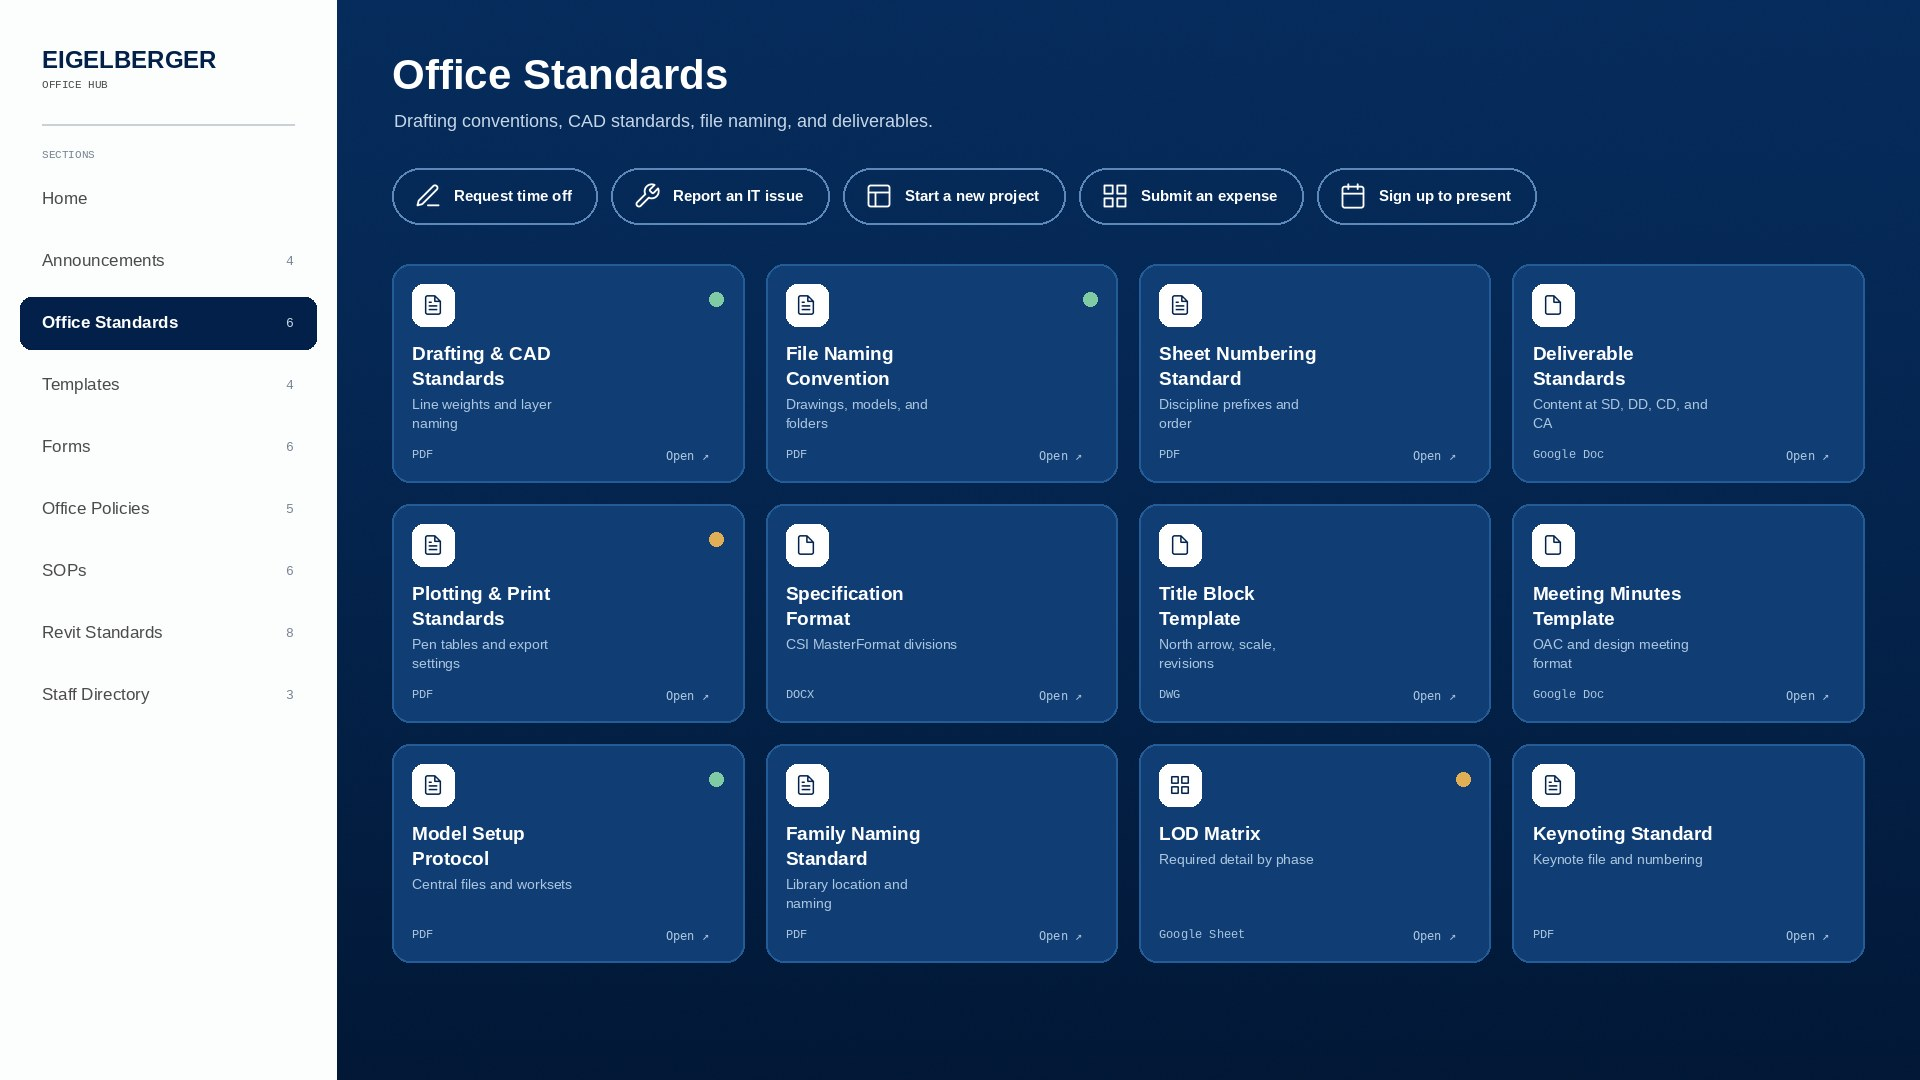
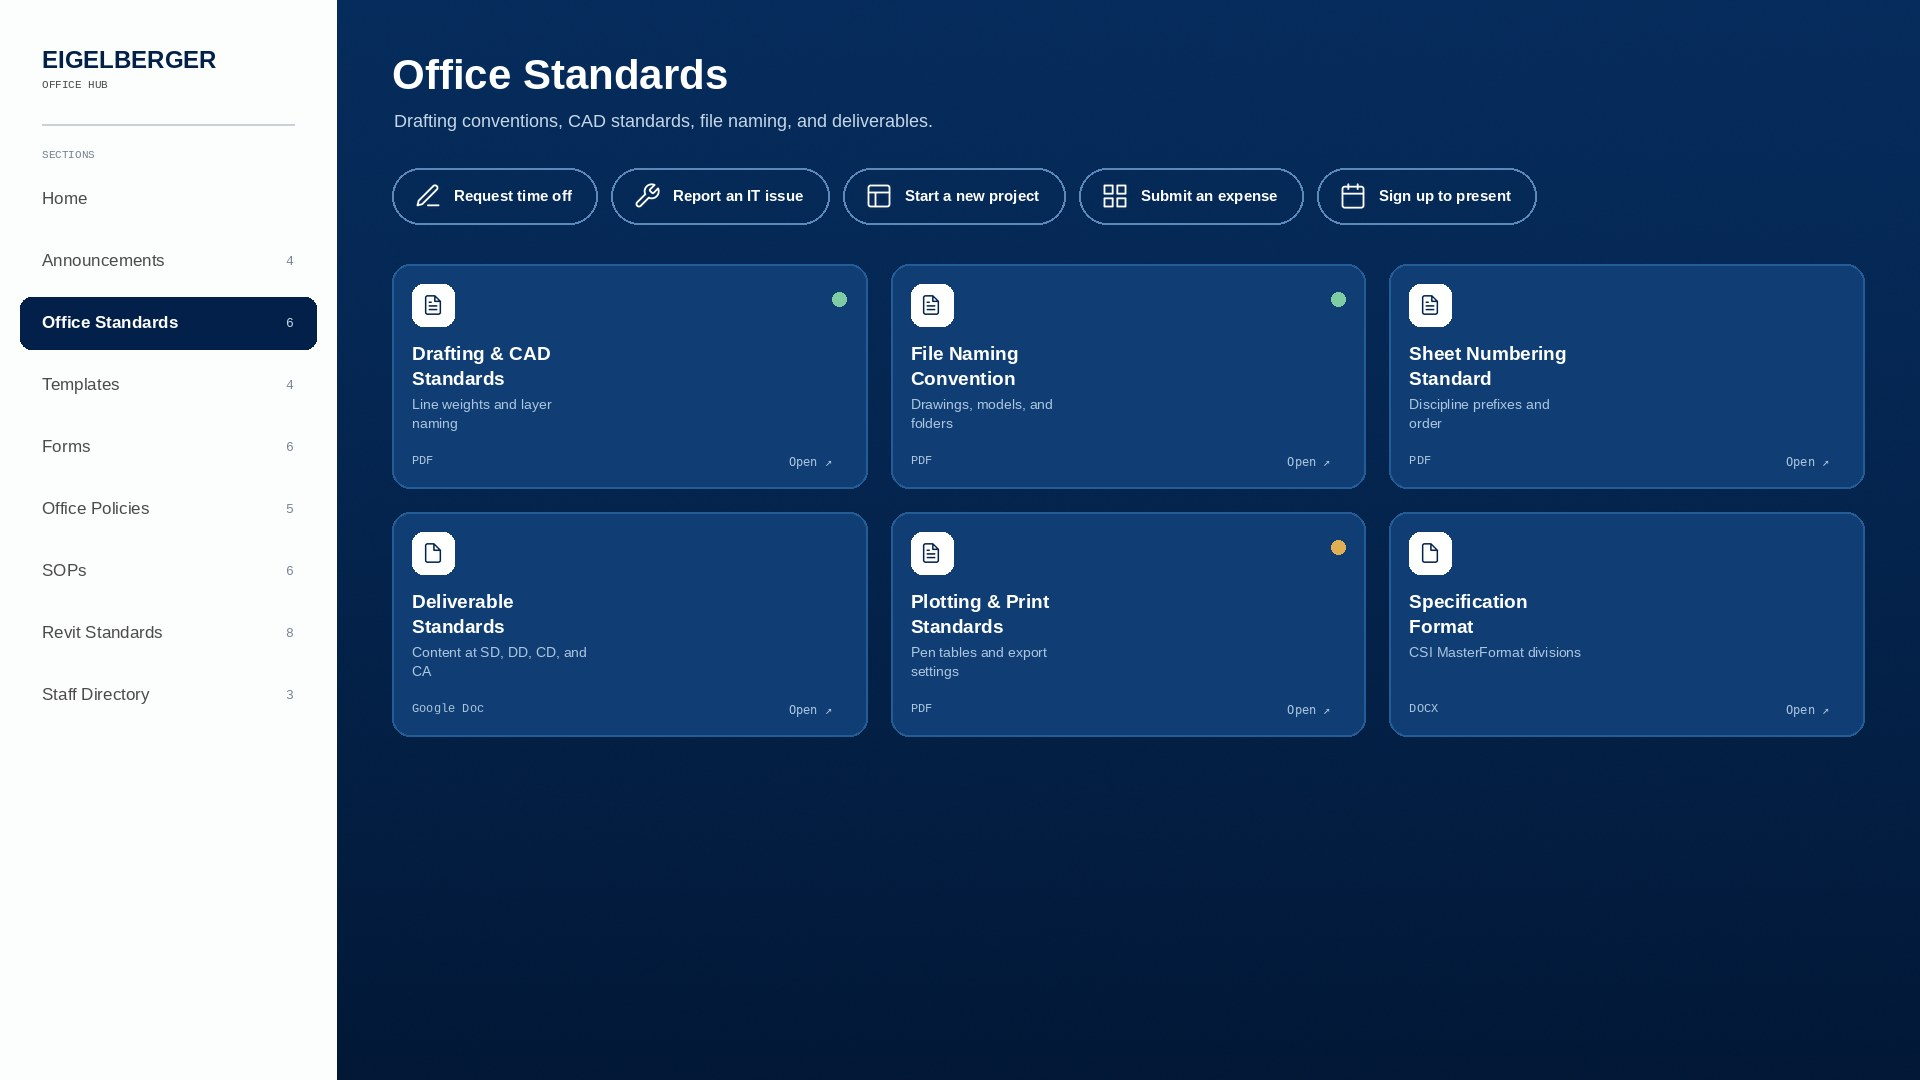
Reduce surface studies to six cards
Twelve cards read as clutter. Three across, two down matches what is actually
in the section and gives the grid room to breathe.

Claude-Session: https://claude.ai/code/session_01YAQcUYpy57Up3cir28mVUA

Changed region(s): [[0.1875, 0.2444, 0.9688, 0.9167]]

diff --git a/design/gen_surfaces.py b/design/gen_surfaces.py
@@ -85,9 +85,9 @@ def header(im, d, t):
 
 # ---------------------------------------------------------------- cards
 def grid(im, d, t, y0):
-    cols, rows, gap = 4, 3, 22
+    cols, rows, gap = 3, 2, 24
     cw = (CX1 - CX0 - gap * (cols - 1)) / cols
-    ch = 218
+    ch = 224
     for i, doc in enumerate(DOCS[:cols * rows]):
         c, r = i % cols, i // cols
         x, y = CX0 + c * (cw + gap), y0 + r * (ch + gap)
